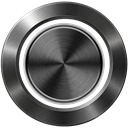
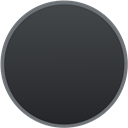
Amp Modeler: a plain dark knob in place of the metal one
The panel's knob face is a dark body with a soft shade and a grey rim (CC0, made by juhamikael with AI image tools), cropped to its circle at 128 x 128.

diff --git a/devices/nam-amp-modeler/panel/README.md b/devices/nam-amp-modeler/panel/README.md
@@ -7,7 +7,7 @@ device registry embeds them into the panel's canvas as image assets when it load
 | File | Asset id | What it is | Size |
 |---|---|---|---|
 | `background.jpg` | `background` | The amp head behind the controls: the frame, the grille with the dark slots the dropdowns, steppers and buttons sit in, the logo and the brushed plate under the knobs | 1284 × 504, three times the 428 × 168 canvas |
-| `knob.png` | `knob` | A knob's face: the metal ring and the spun-metal cap inside it, transparent around it. The panel draws the value's arc around it and the pointer over it, and a theme's `device.knob.body` artwork replaces it | 128 × 128 |
+| `knob.png` | `knob` | A knob's face: a dark body with a soft top-to-bottom shade and a grey rim, transparent around it. The panel draws the value's arc around it and the pointer over it, and a theme's `device.knob.body` artwork replaces it | 128 × 128 |
 
 ## Provenance
 
@@ -17,5 +17,4 @@ device registry embeds them into the panel's canvas as image assets when it load
   ([CONTRIBUTING.md › Shipped content](../../../CONTRIBUTING.md#shipped-content)).
 - **What changed:** scaled down from the originals to fit the SDK's image limits
   ([sdk-custom-ui.md](../../../docs/spec/sdk-custom-ui.md)), at most 512 KiB and one million
-  pixels an image: the background from 1712 × 672; the knob composed from a 1024 × 1024 ring and
-  a 1024 × 1024 cap, centred on each other and cropped to the ring.
+  pixels an image: the background from 1712 × 672; the knob cropped to its circle from 1024 × 1024.

diff --git a/docs/spec/nam-amp-and-cab.md b/docs/spec/nam-amp-and-cab.md
@@ -407,7 +407,7 @@ fills, the dropdowns and the steppers take the palette's colours, and a theme's
    for precision, a double click resets), whole Hz (kHz from 1000).
 3. **The knobs** — on the plate, one row, left to right: **Gain**; **Bass / Mid / Treble**;
    **Delay**; **Volume**; each with its name over it and its value under it. A knob's face is the
-   device's own metal knob (`Dial { image }`), its value's arc around it and its pointer over it;
+   device's own knob (`Dial { image }`, a dark body with a grey rim), its value's arc around it and its pointer over it;
    a drag up or down turns, a double-click returns to the default, arrow keys step when a knob
    has focus. Values read as the SDK's formats write them: dB with one decimal, milliseconds two
    decimals. Labels: "Amp Modeler: gain" … "Amp Modeler: volume".

diff --git a/crates/ui/themes/THEME-PACKAGE-README.md b/crates/ui/themes/THEME-PACKAGE-README.md
@@ -973,7 +973,7 @@ control with no room left is not drawn, without a notice: check narrow tracks an
   `send.knob.pointer` artwork change only those knobs, in the Launcher and the Arrangement.
   `send { appearance: knob; }` makes the Arrangement's sends knobs too.
 - **Device knobs of your own:** `device.knob.body` and `device.knob.pointer` artwork replace the
-  faces and pointers of the knobs a device draws with its own artwork (the Amp Modeler's metal
+  faces and pointers of the knobs a device draws with its own artwork (the Amp Modeler's
   knobs): `device.knob.body { image: url("assets/my-knob.png"); }`. The pointer turns with the
   value; the arc around the knob keeps the knob's `accent-color`.
 - **The mixer's colour strip:** `.control-mixer-color { display: none; }` hides it; `top`, `height`

diff --git a/docs/spec/theme-skins.md b/docs/spec/theme-skins.md
@@ -1360,7 +1360,7 @@ of bars, and a slider id per parameter.
 - **Knob artwork per part:** `pan.knob.body|pointer` and `send.knob.body|pointer` for a pan's and
   a send's knob, in the Launcher and the Arrangement; without them they use `knob.*`.
   `device.knob.body|pointer` replace the face and the pointer of a device panel's knobs that draw
-  the device's own artwork (the Amp Modeler's metal knobs, `Dial { image }`); without them those
+  the device's own artwork (the Amp Modeler's knobs, `Dial { image }`); without them those
   knobs keep the device's image, never `knob.*`. The arc around them takes the knob's
   `accent-color`. An
   Arrangement send is a knob with `send { appearance: knob }`, as in the mixer.

diff --git a/docs/works-now/top/amp-modeler-panel-artwork.md b/docs/works-now/top/amp-modeler-panel-artwork.md
@@ -1,5 +1,5 @@
 - The NAM Amp Modeler's panel is an amp head: its own artwork behind the controls, the pack,
   the model and the ◀ ▶ model steppers on one row, EQ, HQ and the Mid Freq's value under them,
-  and six metal knobs on the plate. The texts, arcs, pointers and lit buttons take the theme's
+  and six knobs on the plate. The texts, arcs, pointers and lit buttons take the theme's
   colours, and a theme's `device.knob.body` and `device.knob.pointer` artwork puts knobs of the
-  user's own in place of the metal ones.
+  user's own in place of the panel's.
